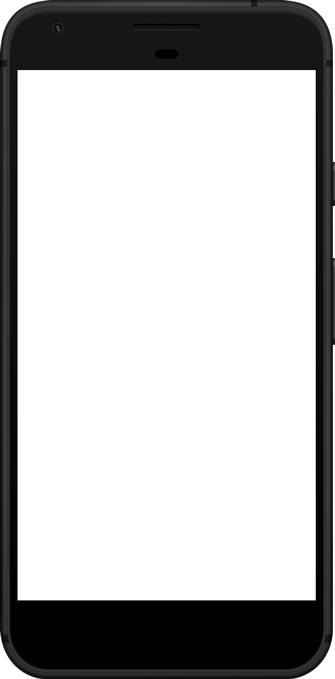
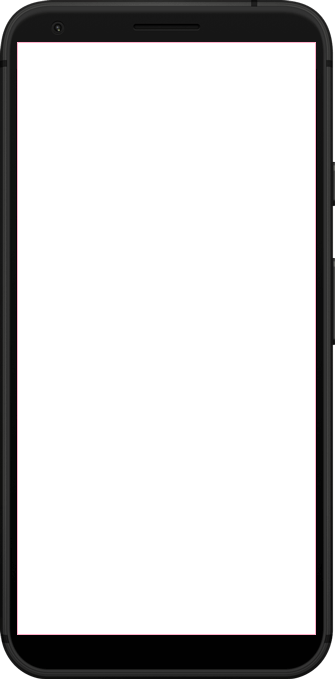
slide formatting

Changed region(s): [[0.0299, 0.866, 0.9552, 0.9588], [0.0299, 0.0619, 0.9552, 0.1237]]

diff --git a/index.html b/index.html
@@ -2,6 +2,9 @@
     <head>
         <title>BankingQuest</title>
         <link rel="stylesheet" type="text/css" href="mainstyle.css">
+        <script src="https://ajax.googleapis.com/ajax/libs/jquery/3.3.1/jquery.min.js"></script>
+
+        <script src="scripts.js"></script>
     </head>
     
     <body>
@@ -12,17 +15,18 @@
                         <img src="mobile_image.png" alt="mobile image!" />
                     </td>
                     <td>
+                        <!--
                         <div class="buttons">
-                            
-                            <div class="button">Personalise Character</div>
-                            <div class="button">Set a Quest</div>
-                            <div class="button">Add Rules</div>
-                            <div class="button">Spend Money</div>
-                            <div class="button">Save Money</div>                            
-                            <div class="button">Complete Quest</div>
+                            <div class="button" onclick="personalise()">Personalise Character</div>
+                            <div class="button" onclick="setQuest()">Set a Quest</div>
+                            <div class="button" onclick="addRules()">Add Rules</div>
+                            <div class="button" onclick="spendMoney()">Spend Money</div>
+                            <div class="button" onclick="saveMoney()">Save Money</div>           
+                            <div class="button" onclick="completeQuest()">Complete Quest</div>
                             <br />
                             
                         </div>
+-->
                     </td>
                     <td class="presentation_text_cell">
                         <h1>
@@ -35,6 +39,9 @@
                                 <li>... Number 8 will SHOCK you</li>
                             </ul>
                         </h1>
+                        <div class="next_slide">
+                            <div class="button" onClick="personalise()">Personalisation ></div>
+                        </div>
                     </td>
                 </tr>
             </table>

diff --git a/scripts.js b/scripts.js
@@ -1,0 +1,52 @@
+/* Order of slides:
+
+Intro - no app on screen 
+
+personalise
+quest
+rules
+spendmoney
+savemoney
+completequest
+
+
+*/
+
+function personalise() {
+    console.log("Personlising!");
+    var new_slide_text = "";
+    new_slide_text += "<h1>Slide Title</h1>";
+    new_slide_text += addNextSlideButton('Add Quest', 'setQuest');
+    setPresentationText(new_slide_text);
+    
+}
+
+function setQuest() {
+    console.log("Setting quest");
+}
+
+function addRules() {
+    console.log("Adding rules");
+}
+
+function spendMoney() {
+    console.log("spending money");
+}
+
+function saveMoney() {
+    console.log("saving money");
+}
+
+function completeQuest() {
+    console.log("Complete quest");
+}
+
+function setPresentationText(text) {
+    console.log("setting text");
+     $(".presentation_text_cell").html(text);
+}
+
+function addNextSlideButton(name, nextSlideFunction) {
+    return '<div class="next_slide"><div class="button" onclick="' + nextSlideFunction + '()">' + name + ' ></div>'
+}
+

diff --git a/mainstyle.css b/mainstyle.css
@@ -18,32 +18,36 @@ html, body {
 }
 
 .app_image_cell {
-    width: 23%;
+    width: 20%;
 }
 
 .app_image_cell img {
-    height: 95%;
-    top: 50px;
-}
-
-.buttons_cell {
-    width: 15%;
-    background-color: red;
+    height: 90%;
 }
 
 .presentation_text_cell {
-    width: 60%;
-    padding: 5em;
+    width: 80%;
+    padding: 2em;
+    float: left;
+    height: 100%;
+}
+
+.next_slide {
+    width: 20%;
+    bottom: 5em;
+    float: right;
+    right: 20%;
+    position:absolute;
 }
 
 .main_table {
-    height: 10%;
-    
-    width: 100%;
+    width: 100hv;
+overflow: hidden;
+    height: 100%;
 }
 
 .button {
-    font-size: 120%;
+    font-size: 140%;
     border-radius: 0.5em;
     background-color: #063663;
     width: 90%;
